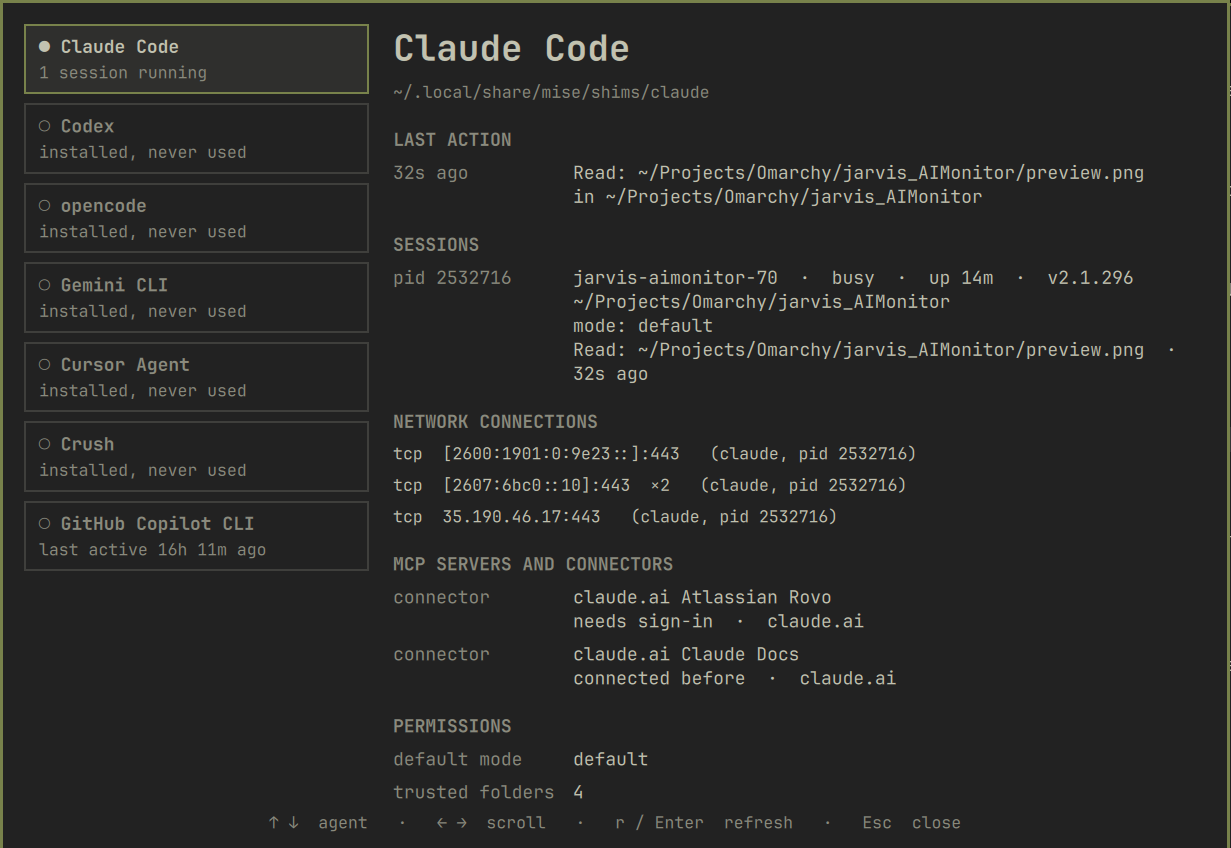
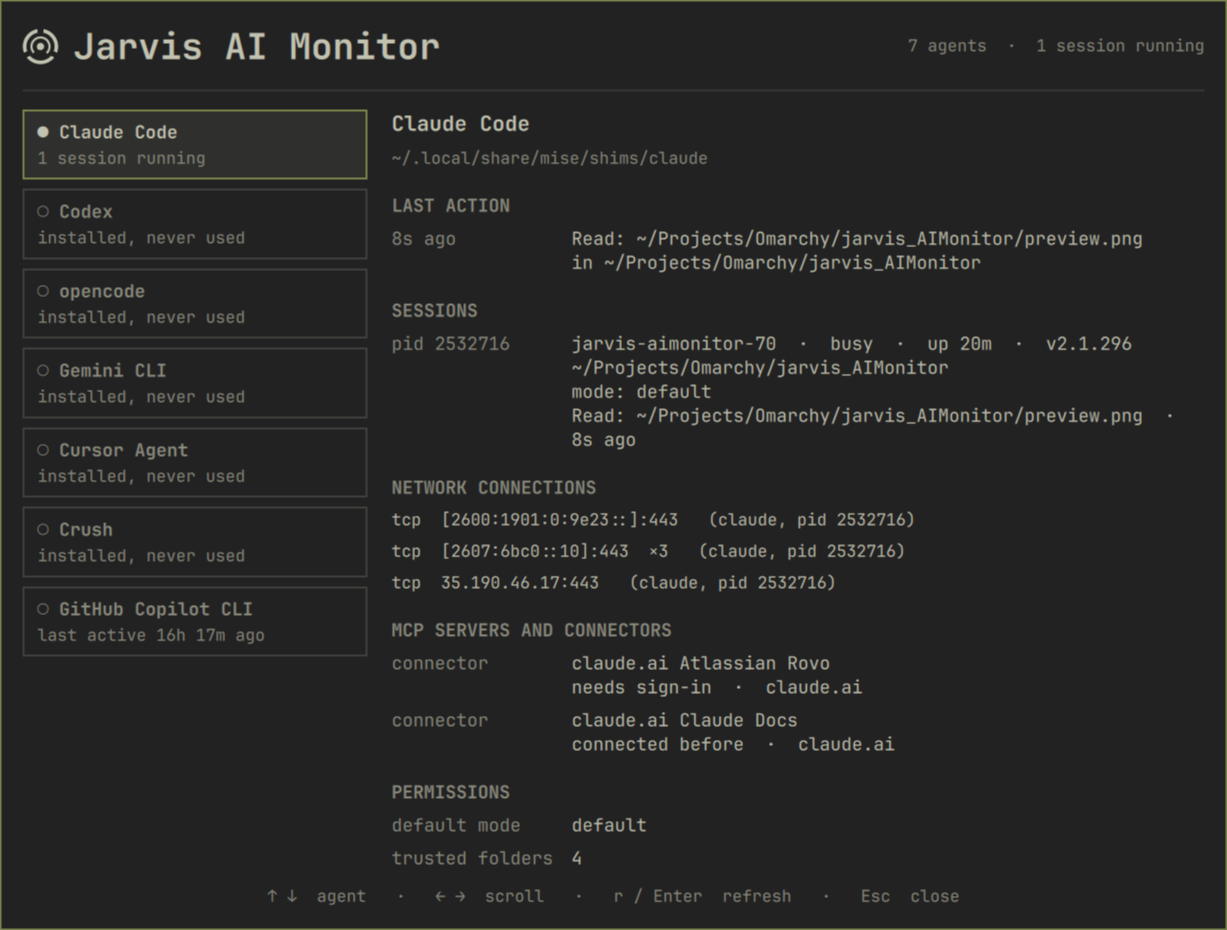
Add panel title and refresh preview

diff --git a/Panel.qml b/Panel.qml
@@ -55,7 +55,7 @@ Panel {
     centerOnBar: true
     focusTarget: keyCatcher
     contentWidth: panel.fittedContentWidth(Style.space(820))
-    contentHeight: panel.fittedContentHeight(Style.space(540))
+    contentHeight: panel.fittedContentHeight(Style.space(590))
 
     PanelKeyCatcher {
       id: keyCatcher
@@ -70,6 +70,49 @@ Panel {
       onTextKey: function(t) {
         if (t === "r" || t === "R") { if (root.collector) root.collector.refresh() }
         else if (t >= "1" && t <= "9") root.select(Number(t) - 1)
+      }
+
+      Item {
+        id: header
+        width: parent.width
+        height: headerTitle.implicitHeight + Style.space(14)
+
+        JarvisIcon {
+          id: headerIcon
+          anchors.verticalCenter: headerTitle.verticalCenter
+          iconSize: Style.font.display
+          color: root.fg
+          spinning: root.hostWidget ? root.hostWidget.busy === true : false
+        }
+
+        Text {
+          id: headerTitle
+          anchors.left: headerIcon.right
+          anchors.leftMargin: Style.space(10)
+          text: "Jarvis AI Monitor"
+          textFormat: Text.PlainText
+          color: root.fg
+          font.family: root.fontFamily
+          font.pixelSize: Style.font.display
+          font.bold: true
+        }
+
+        Text {
+          anchors.right: parent.right
+          anchors.verticalCenter: headerTitle.verticalCenter
+          text: Model.plural(root.agents.length, "agent") + "  ·  "
+            + Model.plural(Model.runningCount(root.agents), "session") + " running"
+          textFormat: Text.PlainText
+          color: root.dim
+          font.family: root.fontFamily
+          font.pixelSize: Style.font.bodySmall
+        }
+
+        PanelSeparator {
+          anchors.bottom: parent.bottom
+          width: parent.width
+          foreground: root.fg
+        }
       }
 
       Text {
@@ -87,7 +130,8 @@ Panel {
         id: sidebar
         visible: root.agents.length > 0
         width: Style.space(230)
-        anchors.top: parent.top
+        anchors.top: header.bottom
+        anchors.topMargin: Style.space(12)
         anchors.bottom: hint.top
         anchors.bottomMargin: Style.space(8)
         spacing: Style.space(6)
@@ -153,7 +197,8 @@ Panel {
         anchors.left: sidebar.right
         anchors.leftMargin: Style.space(16)
         anchors.right: parent.right
-        anchors.top: parent.top
+        anchors.top: header.bottom
+        anchors.topMargin: Style.space(12)
         anchors.bottom: hint.top
         anchors.bottomMargin: Style.space(8)
         contentWidth: width
@@ -172,7 +217,7 @@ Panel {
             textFormat: Text.PlainText
             color: root.fg
             font.family: root.fontFamily
-            font.pixelSize: Style.font.display
+            font.pixelSize: Style.font.title
             font.bold: true
           }
 
